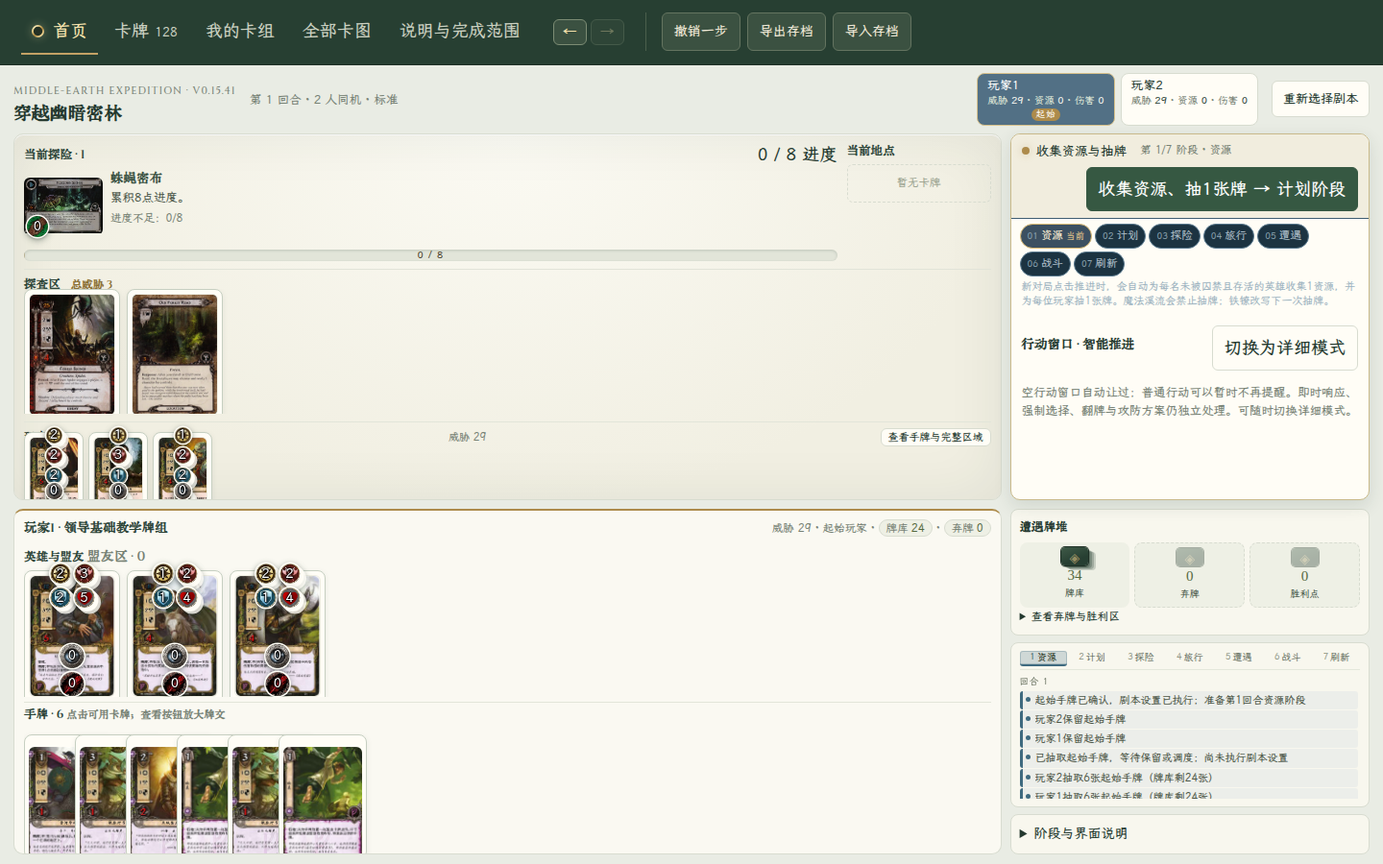
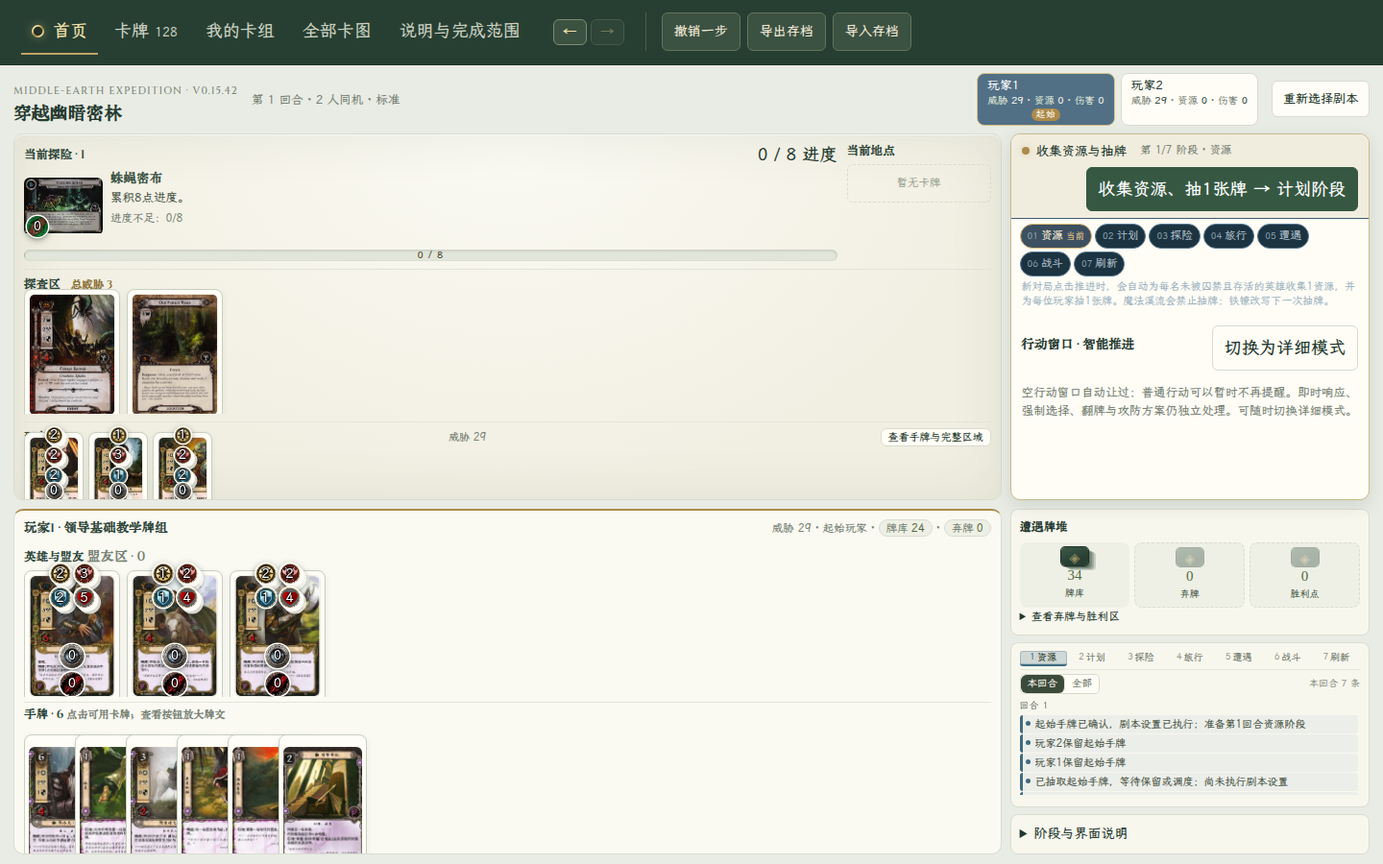
feat(log): 日志默认只显示本回合，可切换全部；修正回合分组乱序
- phase-log: panel 增加 scope 参数（round 默认 / all），roundSpan 用长度截断保证下标一致
- phase-log: group 改按回合号 Map 归并 + 降序，修复回合2/回合3/回合1 乱序
- app.js: logScope 视图偏好（不写 state、不进 history），新增 logScope / undoLog 动作
- style.css: 范围分段按钮与「更早 N 条」入口样式，日志区改四行网格
- 测试: 新增 3 项（默认本回合 / 切换只读 / 回合排序），65 项全绿

diff --git a/index.html b/index.html
@@ -1060,7 +1060,7 @@ body:has(.desktop-table) .player-tabs button{min-height:40px;padding:4px 10px;ga
    左列一条竖排阶段色带，右列按回合分组的日志流；每条记录按所属阶段着色，
    悬停浮出回退按钮。替换原先「远征日志」纯文本列表。 */
 .phase-log{
- display:grid;grid-template-columns:minmax(0,1fr);grid-template-rows:auto minmax(0,1fr);
+ display:grid;grid-template-columns:minmax(0,1fr);grid-template-rows:auto auto minmax(0,1fr) auto;
  gap:4px;min-height:0;height:100%;overflow:hidden}
 /* 阶段条：横排七枚小胶囊，当前阶段用自身色相点亮。竖排会挤成 40px 宽、
    中文两字被拆成两行，可读性反而更差。 */
@@ -1079,6 +1079,21 @@ body:has(.desktop-table) .player-tabs button{min-height:40px;padding:4px 10px;ga
  border-bottom-color:var(--pc);box-shadow:inset 0 0 0 1px color-mix(in srgb,var(--pc) 28%,transparent)}
 .rail-v-step.current>span{color:color-mix(in srgb,var(--pc) 70%,#2f3c28)}
 .rail-v-step.current>b{font-weight:700;color:#2a3623}
+/* 范围切换条：本回合 / 全部，以及当前条数。只用小号文字与细边，不抢阶段色带的视觉层级。 */
+.phase-log .log-bar{display:flex;align-items:center;gap:6px;min-width:0}
+.phase-log .log-scope{display:inline-flex;border:1px solid #d6dacd;border-radius:5px;overflow:hidden;background:#fdfcf5}
+.phase-log .log-scope-btn{
+ padding:1px 7px;border:0;border-right:1px solid #e2e5d9;background:transparent;
+ font:inherit;font-size:10.5px;line-height:1.6;color:#6f7867;cursor:pointer}
+.phase-log .log-scope-btn:last-child{border-right:0}
+.phase-log .log-scope-btn:hover{background:#f1f0e4;color:#3c4a3a}
+.phase-log .log-scope-btn.active{background:#3c4a3a;color:#f8f7ee}
+.phase-log .log-scope-btn:focus-visible{outline:2px solid #c8a96a;outline-offset:-2px}
+.phase-log .log-count{margin-left:auto;font-size:10px;color:#8a9282;white-space:nowrap}
+.phase-log .log-more{
+ align-self:center;margin-top:1px;padding:1px 8px;border:1px dashed #cfd4c6;border-radius:999px;
+ background:#fdfcf5;font:inherit;font-size:10px;line-height:1.6;color:#6f7867;cursor:pointer}
+.phase-log .log-more:hover{background:#f1f0e4;color:#3c4a3a;border-style:solid}
 .phase-log .log-stream{
  display:flex;flex-direction:column;gap:4px;min-height:0;overflow:auto;
  padding-right:2px;scrollbar-width:thin}
@@ -9348,6 +9363,8 @@ const DesktopUI=(()=>{
  const who=(s,id)=>esc(s.players[id]?.name||('玩家'+(id+1)));
  /* 日志回退标记由 app.js 提供（哪次操作产生了哪几条日志）；测试环境无此钩子时返回 null，只渲染不可回退的日志。 */
  const logMarks=()=>{try{return typeof APP_LOG_MARKS==='function'?APP_LOG_MARKS().logMarks:null;}catch(e){return null;}};
+ /* 日志显示范围由 app.js 的视图偏好决定；模块单独加载（测试环境）时退回「本回合」。 */
+ const logScope=()=>{try{return typeof APP_LOG_SCOPE==='function'?APP_LOG_SCOPE():'round';}catch(e){return 'round';}};
  const chip=(text,tone='wait')=>`<span class="op-chip ${tone}">${esc(text)}</span>`;
  /* 诡镇网页版式代币：圆形徽章、数字居中，同型多枚层叠。数量由规则引擎结算，拖放仅作视觉表现。
     属性代币（意志/攻击/防御）是静态数值快照，不参与拖放。 */
@@ -9469,7 +9486,7 @@ const DesktopUI=(()=>{
 <div class="pile ${s.deck.length?'':'empty'}"><span class="pile-cards" aria-hidden="true"></span><strong>${s.deck.length}</strong><small>牌库</small></div>
 <div class="pile discard ${s.discard.length?'':'empty'}"><span class="pile-cards" aria-hidden="true"></span><strong>${s.discard.length}</strong><small>弃牌</small></div>
 <div class="pile victory ${s.victory.length?'':'empty'}"><span class="pile-cards" aria-hidden="true"></span><strong>${s.victory.reduce((n,c)=>n+(c.victory||0),0)}</strong><small>胜利点</small></div>
-</div><details><summary>查看弃牌与胜利区</summary><p>${esc(s.discard.map(c=>c.name).join('、')||'空')}</p><p>${esc(s.victory.map(c=>c.name).join('、')||'空')}</p></details></section>${s.conditions.length?`<section><h2>持续条件</h2>${s.conditions.map(c=>`<p>${esc(c.name)} · ${esc(R.find(s,c.target)?.meta.nameZh||'玩家'+((c.targetPlayer??0)+1))}</p>`).join('')}</section>`:''}<section class="table-log" aria-label="远征日志">${PhaseLog.panel(s,logMarks())}</section><details><summary>阶段与界面说明</summary><p>蓝色边框表示可操作，金色边框表示暂定已选。桌面点选不执行效果；确认后仍需全员核对。已翻开信息无法收回。</p></details></aside></div></div>`;
+</div><details><summary>查看弃牌与胜利区</summary><p>${esc(s.discard.map(c=>c.name).join('、')||'空')}</p><p>${esc(s.victory.map(c=>c.name).join('、')||'空')}</p></details></section>${s.conditions.length?`<section><h2>持续条件</h2>${s.conditions.map(c=>`<p>${esc(c.name)} · ${esc(R.find(s,c.target)?.meta.nameZh||'玩家'+((c.targetPlayer??0)+1))}</p>`).join('')}</section>`:''}<section class="table-log" aria-label="远征日志">${PhaseLog.panel(s,logMarks(),logScope())}</section><details><summary>阶段与界面说明</summary><p>蓝色边框表示可操作，金色边框表示暂定已选。桌面点选不执行效果；确认后仍需全员核对。已翻开信息无法收回。</p></details></aside></div></div>`;
  }
  function handle(el){const k=el.dataset.desktop,uid=+el.dataset.uid,pid=+el.dataset.player,m=mode(state,handView),d=draft(state,m);
   if(k==='view'){handView=pid;render();return;}if(k==='reset'){if(confirm('结束当前桌面并重新选择剧本？建议先导出存档。'))mutate(()=>state=null);return;}
@@ -9700,6 +9717,10 @@ if (typeof module !== 'undefined') module.exports = CardHoverPreview;
 'use strict';
 const E=ScenarioEngine,D=LOTR_DATA,$=s=>document.querySelector(s);
 let state=null,history=[],tab='table',handView=0;
+/* 日志显示范围：'round'（默认，仅本回合）| 'all'。纯视图偏好，不写入对局状态、
+   不进撤销历史，刷新页面沿用本次会话内的选择；后续要加「按阶段筛选」等维度时，
+   在这里扩成对象（如 {scope:'round',phases:[]}）再传给 PhaseLog.panel 即可。 */
+let logScope='round';
 /* 日志回退：history[j] 存的是第 j 次操作「之前」的状态，但并非每次操作都会写日志，
    所以两者不能按下标直接对应。logMarks[j] 记录第 j 次操作把日志从几条变成几条（[before,after]），
    日志条目据此精确定位到「产生它的那次操作」，回退时才能停在正确的前态。
@@ -9709,6 +9730,8 @@ let state=null,history=[],tab='table',handView=0;
     所以定位回退点一律用 seq 反查（history[seq - baseSeq]）。 */
 let logMarks=[],historyBase=0;
 function APP_LOG_MARKS(){return {logMarks,base:historyBase,length:history.length};}
+/* 供桌面右栏日志读取当前显示范围（纯视图偏好，见上方 logScope 注释）。 */
+function APP_LOG_SCOPE(){return logScope;}
 const setupDraft={players:1,seed:'',first:0,decks:['starter-leadership','starter-tactics','starter-spirit','starter-lore']};
 function captureSetup(){if(state)return;const count=$('#playerCount');if(!count)return;const n=Number(count.value);if(Number.isInteger(n)&&n>=1&&n<=4)setupDraft.players=n;setupDraft.seed=$('#seed')?.value||'';setupDraft.first=Number($('#pc-first')?.value||0);if(setupDraft.first>=setupDraft.players)setupDraft.first=0;for(let i=0;i<4;i++){const value=$('#pc-deck-'+i)?.value;if(value)setupDraft.decks[i]=value;}}
 function bindSetup(){if(state||tab!=='table')return;const count=$('#playerCount');if(!count)return;count.onchange=()=>{captureSetup();render();};for(const id of ['seed','pc-first','pc-deck-0','pc-deck-1','pc-deck-2','pc-deck-3']){const el=$('#'+id);if(el){el.onchange=captureSetup;if(id==='seed')el.oninput=captureSetup;}}}
@@ -10021,6 +10044,7 @@ async function choose(title,body,read){return new Promise(resolve=>{let d=docume
 function playerOptions(){return state.players.filter(p=>!p.eliminated).map(p=>`<option value="${p.id}">${enc(p.name)}</option>`).join('');}
 $('#app').onclick=async ev=>{const b=ev.target.closest('[data-action]');if(!b||b.disabled)return;const a=b.dataset.action,uid=Number(b.dataset.uid),id=Number(b.dataset.id),pid=Number(b.dataset.player);
  if(a==='desktop'){DesktopUI.handle(b);return;}
+ if(a==='logScope'){const v=b.dataset.scope;if(!['round','all'].includes(v))return;logScope=v;render();return;}
  if(a==='undoLog'){const seq=Number(b.dataset.seq),j=seq-historyBase;
   if(!Number.isInteger(seq)||j<0||j>=history.length)return;
   /* 回退到该次操作之前：状态、历史、日志标记一起截断到那一刻。 */

diff --git a/phase-log.js b/phase-log.js
@@ -43,13 +43,18 @@ const PhaseLog=(()=>{
   for(let j=marks.length-1;j>=0;j--)if(marks[j].before<=target&&target<marks[j].after)return marks[j].seq;
   return null;
  }
+ /* 按回合分组：只做「相邻同回合合并」，再按回合号从新到旧排序。
+    日志是 newest-first，但同回合内可能夹着跨回合的杂项（阶段切换、补写记录），
+    单纯扫描会把同一回合拆成多段并排到后面，出现「回合2 / 回合3 / 回合1」的乱序。 */
  function group(entries){
-  const out=[];
+  const out=[],byRound=new Map();
   for(const e of entries){
-   const last=out[out.length-1];
-   if(last&&last.round===e.round)last.items.push(e);else out.push({round:e.round,items:[e]});
+   let g=byRound.get(e.round);
+   if(!g){g={round:e.round,items:[]};byRound.set(e.round,g);out.push(g);}
+   g.items.push(e);
   }
-  return out;
+  /* 回合号大的是更新的回合，排在上面；回合号 0（无法解析）沉底。 */
+  return out.sort((a,b)=>(b.round||0)-(a.round||0));
  }
  /* 仅当前阶段的记录高亮，其余淡化——和截图里「MYTHOS 段整块亮、其余灰」一致。 */
  function rail(s){
@@ -72,24 +77,47 @@ const PhaseLog=(()=>{
    </button>`:''}
   </li>`;
  }
- /* log: 原始日志（newest-first）；marks: app.js 的操作日志标记（可省略） */
- function panel(s,marks=null){
+ /* 显示范围：默认只显示本回合。round=0 表示「全部回合」。
+   范围只影响渲染，不改写 state.log，也不进撤销历史——切换范围属于纯视图操作。 */
+ const SCOPES=[{key:'round',label:'本回合'},{key:'all',label:'全部'}];
+ const SCOPE_KEYS=SCOPES.map(x=>x.key);
+ function normalizeScope(scope){return SCOPE_KEYS.includes(scope)?scope:'round';}
+ /* 本回合能显示多少条：日志 newest-first，扫到第一条第 round 小于当前回合的记录为止。
+    用长度而不是筛掉旧记录，保证「本回合」模式下 index 与原日志下标一致，回退映射不需要换算。 */
+ function roundSpan(lines,round){
+  let n=0;
+  for(const line of lines){if(parse(line).round!==round)break;n++;}
+  return n;
+ }
+ /* log: 原始日志（newest-first）；marks: app.js 的操作日志标记；scope: 'round'|'all' */
+ function panel(s,marks=null,scope='round'){
   if(!s)return '';
-  const raw=(s.log||[]).slice(0,120);
+  const mode=normalizeScope(scope),all=s.log||[],room=120;
+  const span=mode==='round'?roundSpan(all,s.round):all.length;
+  /* 总数取渲染窗口内的条数：回退映射只在这个窗口里有意义 */
+  const raw=all.slice(0,Math.min(room,span));
   /* 下标必须随解析一起落库（日志是 newest-first，index 越小越新）。
      早先版本用 entries.indexOf(e) 反查，同文本条目会全部命中第一条，导致只有一条能撤回。 */
   const entries=raw.map((line,i)=>({...parse(line,PHASE_COLOR[s.phase]?.key),index:i}));
   const groups=group(entries);
   const total=entries.length;
+  const hidden=all.length-span;
   const body=groups.length?groups.map(g=>`
    <div class="log-round">
     <div class="log-round-head"><span>回合 ${g.round||'—'}</span></div>
     <ol class="log-list">${g.items.map(e=>entry(e,e.index,total,marks)).join('')}</ol>
-   </div>`).join(''):'<p class="log-empty">尚无可显示的记录。推进阶段后这里会按阶段着色记录每一步。</p>';
-  return `<section class="phase-log" aria-label="阶段与行动日志">
+   </div>`).join(''):`<p class="log-empty">${mode==='round'?'本回合还没有记录；推进阶段或执行操作后会出现在这里。':'尚无可显示的记录。'}</p>`;
+  /* 本回合模式下明确告知还有多少旧记录，并给一键切换（不写游戏状态） */
+  const more=mode==='round'&&hidden>0?`<button type="button" class="log-more small" data-action="logScope" data-scope="all">更早 ${hidden} 条 · 查看全部回合</button>`:'';
+  return `<section class="phase-log" aria-label="阶段与行动日志" data-scope="${mode}">
    ${rail(s)}
+   <div class="log-bar">
+    <div class="log-scope" role="group" aria-label="日志范围">${SCOPES.map(o=>`<button type="button" class="log-scope-btn${o.key===mode?' active':''}" data-action="logScope" data-scope="${o.key}" aria-pressed="${o.key===mode}">${o.label}</button>`).join('')}</div>
+    <span class="log-count small">${mode==='round'?`本回合 ${total} 条`:`共 ${total} 条`}</span>
+   </div>
    <div class="log-stream">${body}</div>
+   ${more}
   </section>`;
  }
- return {panel,parse,undoFor,PHASE_COLOR};
+ return {panel,parse,undoFor,PHASE_COLOR,SCOPES,normalizeScope,roundSpan};
 })();

diff --git a/desktop-ui.js b/desktop-ui.js
@@ -8,6 +8,8 @@ const DesktopUI=(()=>{
  const who=(s,id)=>esc(s.players[id]?.name||('玩家'+(id+1)));
  /* 日志回退标记由 app.js 提供（哪次操作产生了哪几条日志）；测试环境无此钩子时返回 null，只渲染不可回退的日志。 */
  const logMarks=()=>{try{return typeof APP_LOG_MARKS==='function'?APP_LOG_MARKS().logMarks:null;}catch(e){return null;}};
+ /* 日志显示范围由 app.js 的视图偏好决定；模块单独加载（测试环境）时退回「本回合」。 */
+ const logScope=()=>{try{return typeof APP_LOG_SCOPE==='function'?APP_LOG_SCOPE():'round';}catch(e){return 'round';}};
  const chip=(text,tone='wait')=>`<span class="op-chip ${tone}">${esc(text)}</span>`;
  /* 诡镇网页版式代币：圆形徽章、数字居中，同型多枚层叠。数量由规则引擎结算，拖放仅作视觉表现。
     属性代币（意志/攻击/防御）是静态数值快照，不参与拖放。 */
@@ -129,7 +131,7 @@ const DesktopUI=(()=>{
 <div class="pile ${s.deck.length?'':'empty'}"><span class="pile-cards" aria-hidden="true"></span><strong>${s.deck.length}</strong><small>牌库</small></div>
 <div class="pile discard ${s.discard.length?'':'empty'}"><span class="pile-cards" aria-hidden="true"></span><strong>${s.discard.length}</strong><small>弃牌</small></div>
 <div class="pile victory ${s.victory.length?'':'empty'}"><span class="pile-cards" aria-hidden="true"></span><strong>${s.victory.reduce((n,c)=>n+(c.victory||0),0)}</strong><small>胜利点</small></div>
-</div><details><summary>查看弃牌与胜利区</summary><p>${esc(s.discard.map(c=>c.name).join('、')||'空')}</p><p>${esc(s.victory.map(c=>c.name).join('、')||'空')}</p></details></section>${s.conditions.length?`<section><h2>持续条件</h2>${s.conditions.map(c=>`<p>${esc(c.name)} · ${esc(R.find(s,c.target)?.meta.nameZh||'玩家'+((c.targetPlayer??0)+1))}</p>`).join('')}</section>`:''}<section class="table-log" aria-label="远征日志">${PhaseLog.panel(s,logMarks())}</section><details><summary>阶段与界面说明</summary><p>蓝色边框表示可操作，金色边框表示暂定已选。桌面点选不执行效果；确认后仍需全员核对。已翻开信息无法收回。</p></details></aside></div></div>`;
+</div><details><summary>查看弃牌与胜利区</summary><p>${esc(s.discard.map(c=>c.name).join('、')||'空')}</p><p>${esc(s.victory.map(c=>c.name).join('、')||'空')}</p></details></section>${s.conditions.length?`<section><h2>持续条件</h2>${s.conditions.map(c=>`<p>${esc(c.name)} · ${esc(R.find(s,c.target)?.meta.nameZh||'玩家'+((c.targetPlayer??0)+1))}</p>`).join('')}</section>`:''}<section class="table-log" aria-label="远征日志">${PhaseLog.panel(s,logMarks(),logScope())}</section><details><summary>阶段与界面说明</summary><p>蓝色边框表示可操作，金色边框表示暂定已选。桌面点选不执行效果；确认后仍需全员核对。已翻开信息无法收回。</p></details></aside></div></div>`;
  }
  function handle(el){const k=el.dataset.desktop,uid=+el.dataset.uid,pid=+el.dataset.player,m=mode(state,handView),d=draft(state,m);
   if(k==='view'){handView=pid;render();return;}if(k==='reset'){if(confirm('结束当前桌面并重新选择剧本？建议先导出存档。'))mutate(()=>state=null);return;}

diff --git a/app.js b/app.js
@@ -1,6 +1,10 @@
 'use strict';
 const E=ScenarioEngine,D=LOTR_DATA,$=s=>document.querySelector(s);
 let state=null,history=[],tab='table',handView=0;
+/* 日志显示范围：'round'（默认，仅本回合）| 'all'。纯视图偏好，不写入对局状态、
+   不进撤销历史，刷新页面沿用本次会话内的选择；后续要加「按阶段筛选」等维度时，
+   在这里扩成对象（如 {scope:'round',phases:[]}）再传给 PhaseLog.panel 即可。 */
+let logScope='round';
 /* 日志回退：history[j] 存的是第 j 次操作「之前」的状态，但并非每次操作都会写日志，
    所以两者不能按下标直接对应。logMarks[j] 记录第 j 次操作把日志从几条变成几条（[before,after]），
    日志条目据此精确定位到「产生它的那次操作」，回退时才能停在正确的前态。
@@ -10,6 +14,8 @@ let state=null,history=[],tab='table',handView=0;
     所以定位回退点一律用 seq 反查（history[seq - baseSeq]）。 */
 let logMarks=[],historyBase=0;
 function APP_LOG_MARKS(){return {logMarks,base:historyBase,length:history.length};}
+/* 供桌面右栏日志读取当前显示范围（纯视图偏好，见上方 logScope 注释）。 */
+function APP_LOG_SCOPE(){return logScope;}
 const setupDraft={players:1,seed:'',first:0,decks:['starter-leadership','starter-tactics','starter-spirit','starter-lore']};
 function captureSetup(){if(state)return;const count=$('#playerCount');if(!count)return;const n=Number(count.value);if(Number.isInteger(n)&&n>=1&&n<=4)setupDraft.players=n;setupDraft.seed=$('#seed')?.value||'';setupDraft.first=Number($('#pc-first')?.value||0);if(setupDraft.first>=setupDraft.players)setupDraft.first=0;for(let i=0;i<4;i++){const value=$('#pc-deck-'+i)?.value;if(value)setupDraft.decks[i]=value;}}
 function bindSetup(){if(state||tab!=='table')return;const count=$('#playerCount');if(!count)return;count.onchange=()=>{captureSetup();render();};for(const id of ['seed','pc-first','pc-deck-0','pc-deck-1','pc-deck-2','pc-deck-3']){const el=$('#'+id);if(el){el.onchange=captureSetup;if(id==='seed')el.oninput=captureSetup;}}}
@@ -322,6 +328,7 @@ async function choose(title,body,read){return new Promise(resolve=>{let d=docume
 function playerOptions(){return state.players.filter(p=>!p.eliminated).map(p=>`<option value="${p.id}">${enc(p.name)}</option>`).join('');}
 $('#app').onclick=async ev=>{const b=ev.target.closest('[data-action]');if(!b||b.disabled)return;const a=b.dataset.action,uid=Number(b.dataset.uid),id=Number(b.dataset.id),pid=Number(b.dataset.player);
  if(a==='desktop'){DesktopUI.handle(b);return;}
+ if(a==='logScope'){const v=b.dataset.scope;if(!['round','all'].includes(v))return;logScope=v;render();return;}
  if(a==='undoLog'){const seq=Number(b.dataset.seq),j=seq-historyBase;
   if(!Number.isInteger(seq)||j<0||j>=history.length)return;
   /* 回退到该次操作之前：状态、历史、日志标记一起截断到那一刻。 */

diff --git a/style.css b/style.css
@@ -1058,7 +1058,7 @@ body:has(.desktop-table) .player-tabs button{min-height:40px;padding:4px 10px;ga
    左列一条竖排阶段色带，右列按回合分组的日志流；每条记录按所属阶段着色，
    悬停浮出回退按钮。替换原先「远征日志」纯文本列表。 */
 .phase-log{
- display:grid;grid-template-columns:minmax(0,1fr);grid-template-rows:auto minmax(0,1fr);
+ display:grid;grid-template-columns:minmax(0,1fr);grid-template-rows:auto auto minmax(0,1fr) auto;
  gap:4px;min-height:0;height:100%;overflow:hidden}
 /* 阶段条：横排七枚小胶囊，当前阶段用自身色相点亮。竖排会挤成 40px 宽、
    中文两字被拆成两行，可读性反而更差。 */
@@ -1077,6 +1077,21 @@ body:has(.desktop-table) .player-tabs button{min-height:40px;padding:4px 10px;ga
  border-bottom-color:var(--pc);box-shadow:inset 0 0 0 1px color-mix(in srgb,var(--pc) 28%,transparent)}
 .rail-v-step.current>span{color:color-mix(in srgb,var(--pc) 70%,#2f3c28)}
 .rail-v-step.current>b{font-weight:700;color:#2a3623}
+/* 范围切换条：本回合 / 全部，以及当前条数。只用小号文字与细边，不抢阶段色带的视觉层级。 */
+.phase-log .log-bar{display:flex;align-items:center;gap:6px;min-width:0}
+.phase-log .log-scope{display:inline-flex;border:1px solid #d6dacd;border-radius:5px;overflow:hidden;background:#fdfcf5}
+.phase-log .log-scope-btn{
+ padding:1px 7px;border:0;border-right:1px solid #e2e5d9;background:transparent;
+ font:inherit;font-size:10.5px;line-height:1.6;color:#6f7867;cursor:pointer}
+.phase-log .log-scope-btn:last-child{border-right:0}
+.phase-log .log-scope-btn:hover{background:#f1f0e4;color:#3c4a3a}
+.phase-log .log-scope-btn.active{background:#3c4a3a;color:#f8f7ee}
+.phase-log .log-scope-btn:focus-visible{outline:2px solid #c8a96a;outline-offset:-2px}
+.phase-log .log-count{margin-left:auto;font-size:10px;color:#8a9282;white-space:nowrap}
+.phase-log .log-more{
+ align-self:center;margin-top:1px;padding:1px 8px;border:1px dashed #cfd4c6;border-radius:999px;
+ background:#fdfcf5;font:inherit;font-size:10px;line-height:1.6;color:#6f7867;cursor:pointer}
+.phase-log .log-more:hover{background:#f1f0e4;color:#3c4a3a;border-style:solid}
 .phase-log .log-stream{
  display:flex;flex-direction:column;gap:4px;min-height:0;overflow:auto;
  padding-right:2px;scrollbar-width:thin}

diff --git a/CHANGELOG.md b/CHANGELOG.md
@@ -3,8 +3,10 @@
 - **日志按阶段着色**：新增 `phase-log.js`。日志行改为「回合N · §P3§文本」的结构化格式（`§` 标记可被纯文本工具直接切掉，旧存档无标记时按关键词或当前阶段归组）。七个阶段各有一套色相：资源蓝灰、计划赭、探险绿、旅行青、遭遇紫、战斗砖红、刷新靛。顶部一条横排 7 枚阶段胶囊，当前阶段用自身色相点亮。
 - **单条回退**：悬停任一日志条目，右侧浮出回退按钮，点击即回到**那条记录出现之前**的完整状态。历史上 `history[j]` 存的是操作「之前」的状态，而日志是操作「之后」才写入，两者不能按下标对齐；本次在 `mutate()` 里记录每次操作前后的日志条数（`logMarks`，含绝对序号 `seq` 以兼容 80 步截断），日志据此精确落到产生它的那次操作。
 - **右栏布局修正**：右栏原有两行网格定义（`auto minmax(0,1fr)`），第三块会落到隐式行而被挤出视口。改为三行 `auto minmax(0,1fr) auto`，日志区改独立 `section` 撑满剩余高度（放 `details` 内会因内容高度反向撑高自身）。矮屏（≤860px 高）压缩牌堆栏为单行计数，1366×768 下日志可见条目由 1 条提升到 4 条。
+- **默认只显示本回合**：日志默认限定为当前回合，顶部「本回合 / 全部」分段按钮可随时切换；有更早记录时底部给出「更早 N 条 · 查看全部回合」入口。`panel(state, marks, scope)` 的 `scope` 是唯一开关，`roundSpan()` 用「从头数到第一条第回合号不同」的长度截断而非过滤，保证本回合模式下条目下标与原日志一致、回退映射无需换算。**切换范围是纯视图操作**——不写 `state`、不进 `history`、不产生 `logMarks`；后续若要加「按阶段筛选」等维度，把 `app.js` 的 `logScope` 扩成 `{scope, phases}` 对象传给 `panel` 即可。
+- **回合分组排序修正**：日志为 newest-first，但同回合内可能夹着跨回合杂项（阶段切换、补写记录），原先只做「相邻同回合合并」会把同一回合拆成多段，出现「回合2 / 回合3 / 回合1」的乱序。改为 `Map` 按回合号归并后再降序排列。
 - **对比度**：日志正文/回合标签/阶段名纳入 `check-contrast` 取样；同时修正该脚本的一个真实缺陷——Chrome 对 `color-mix()` 计算色返回浮点 `oklab()`，旧代码按 0~255 解析导致对比度失真，现统一归一化。
-- 验收：455 项测试全绿（新增 4 项日志解析/回退映射/DOM 渲染/回退行为回归）；check-layout 16、check-contrast 6 阶段 0 低对比、check-taskbar 23、check-score 19、check-card-hover 22、check-setup-reveal 13、check-deck-share 16、check-onescreen 四分辨率、browser-check 全流程全部通过；真实浏览器验证日志回退（日志 7→6、历史标记 4→3、对局保留）。
+- 验收：458 项测试全绿（新增 4 项日志解析/回退映射/DOM 渲染/回退行为回归，3 项日志范围默认值/只读性/回合排序回归）；check-layout 16、check-contrast 6 阶段 0 低对比、check-taskbar 23、check-score 19、check-card-hover 22、check-setup-reveal 13、check-deck-share 16、check-onescreen 四分辨率、browser-check 全流程全部通过；真实浏览器验证日志回退（日志 7→6、历史标记 4→3、对局保留）。
 
 # v0.15.41 · 单屏桌面布局：BGA 式「左桌右栏」四区重排（2026-10-23）
 
